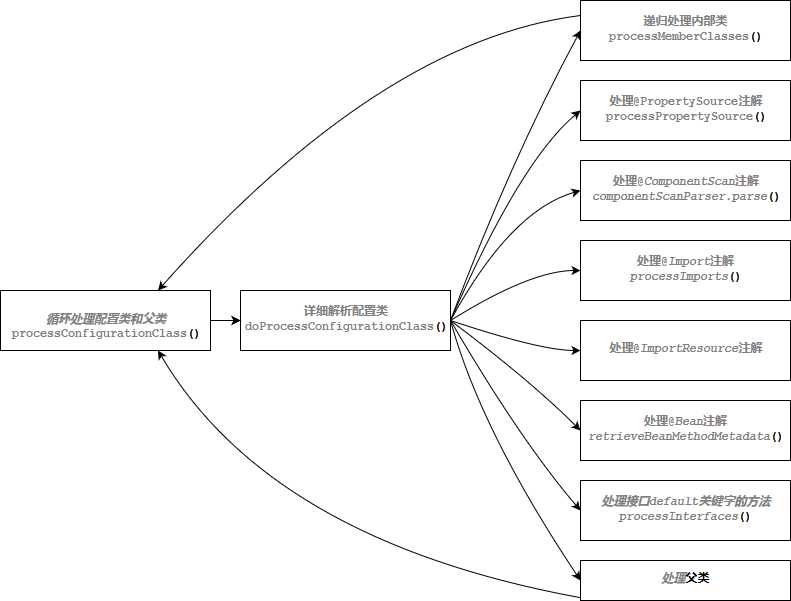
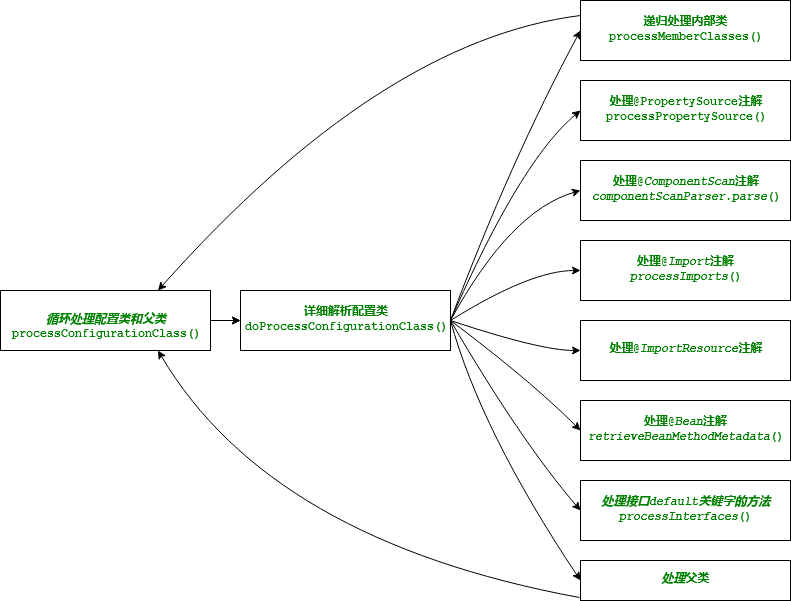
增加总结, 更新作图, 更改排版序号

diff --git a/spring-ioc/spring-ioc.md b/spring-ioc/spring-ioc.md
@@ -14,7 +14,7 @@
 ## 容器
 
 
-### 一、 容器概览
+### 1. 容器概览
 
 以一张图来看看, **Spring IOC**容器包含哪些东西  
 ![Spring 容器](images/spring-ioc.png)
@@ -42,7 +42,7 @@
 * `LifecycleProcessor` `Bean`实例生命周期处理器, 是容器初始化完成, 所有`Bean`实例一切就绪后, 容器对外输出实现`Lifecycle`接口的扩展组件`Bean`执行自动启动, 如`rabbitmq`客户端组件就是应用了这个机制. 当容器初始化完成后, 容器引导`rabbitmq`启动, `rabbitmq`客户端组件内部开始执行`rabbitmq`客户端连接到`rabbitmq`服务器, 创建监听器监听队列消息等一系列初始化工作. 
 
 
-### 二、 如何创建一个新容器
+### 2. 如何创建一个新容器
 
 **Spring**容器被设计为父子层级容器, 子容器可以继承公共父容器的**Bean**实例, 这对于某些场景需要多个不同隔离的子容器提供了支持. 比如在**Spring MVC**中, 展现层`Bean`位于一个子容器中, 而业务层和持久层的`Bean`位于父容器中. 这样, 展现层`Bean`就可以引用业务层和持久层的`Bean`, 而业务层和持久层的`Bean`则看不到展现层的`Bean`.
 创建**Spring**容器可以以XML文件声明式和注解编码两种方式, 或者混用两种方式. 针对不同方式的`Bean`定义声明, **Spring**提供不同的支持类:
@@ -73,7 +73,7 @@
 这是一个标准的**maven**项目结构, **java**目录都是存放**java**包、**java**文件的根目录, **resources**目录存放应用、日志、国际化消息及其他配置相关的配置文件.
 
 
-#### 注解方式创建容器的几种示例
+#### 2.1. 注解方式创建容器的几种示例
 
 1. 注解类为参数的构造器  
 * 注解类代码
@@ -122,7 +122,7 @@ public class SpringContainer {
 以无参构造器方式创建一个完整的容器, 需要的代码也不多, 调用`register`方法注册一个注解类或者调用`scan`方法指定要扫描的包名, 然后调用`refresh`方法刷新容器, 调用刷新方法是**必须的**, 容器初始化大量相关的工作需要调用该方法.
 
 
-### 三、 容器启动流程
+### 3. 容器启动流程
 
 通过前面的示例, 创建一个容器很简单, 仅两三行代码就完成了. 我们输入一个配置类或者包名, 最后容器输出一系列事先定义的`Bean`实例(仅限单例会预先创建, 多例要在运行时动态创建), 容器里面到底发生了什么, 我们不知晓, 一般来说也不需要关心, 容器自身保证输出的`Bean`实例及依赖关系的正确性. 让我们窥视下这个黑盒子做了哪些工作:  
 ![Spring 容器启动流程](images/spring-ioc-sequence.png)
@@ -265,7 +265,7 @@ public class AnnotationConfigUtils {
 3. 第三是参与`Bean`实例创建生命周期的处理器`Bean`定义, 该类型的处理器`Bean`定义实例先于其他`Bean`定义实例创建, 但晚于容器生命周期处理器类型实例. 在创建`Bean`实例和初始化过程被触发调用, 解决依赖属性、校验依赖是否满足、包装方法(事件监听器)
 
 
-### 一、 `AnnotationAwareOrderComparator` 源码分析
+### 1. `AnnotationAwareOrderComparator` 源码分析
 
 该类在容器中有两大用处, 第一用处在容器内部调用PostProcessor处理器时, 优先触发调用实现了接口`Ordered`或注解`@Order`的处理器, 值越小越优先被触发. 第二用处在属性依赖选择时, 当属性依赖只需一个种子`Bean`, 而容器发现存在多个种子`Bean`, 根据`@Priority`注解, 值小者被选择性更高, 存在优先级一样等不确定时容器会抛出异常
 ```java
@@ -333,7 +333,7 @@ public class AnnotationAwareOrderComparator {
 `FirstAutowire`优先级是1 所以在单属性依赖时被优先选择注入. 在数组属性依赖的注入值可以看到, 因为`FirstAutowire`的排序号3 所以在数组的排序是2
 
 
-### 二、 `ContextAnnotationAutowireCandidateResolver` 源码分析
+### 2. `ContextAnnotationAutowireCandidateResolver` 源码分析
 
 自动绑定备选项选择器用于判断一个`Bean`对象是否可作为"种子`Bean`"被绑定到属性依赖, 在实际应用中, 当存在多个"种子`Bean`"时, 我们可以通过`@Qualifier`设置一个匹配值来过滤, `ContextAnnotationAutowireCandidateResolver` 类通过继承关系来区分不同基础类的功能和职责:  
 ![Spring 自动绑定备选项选择器](images/spring-autowire-candidate-resolver-class.png)
@@ -354,7 +354,7 @@ public class AnnotationAwareOrderComparator {
 知识前知道: `BeanDefinition`类, 是对`XML`或者注解`@Bean`方式声明`Bean`定义的元数据表达, 其中最主要的元数据是`beanClassName`, `factoryBeanName`与`factoryMethodName`, 在配置元数据定义时, 如果设置`beanClassName`, 说明`Bean`实例的类型就是名字所指的类型, 如果设置`factoryBeanName`和`factoryMethodName`, `Bean`实例是由`factoryBeanName`所指的工厂`Bean`来创建, 创建的方法是`factoryMethodName`指定的方法名, `Bean`的类型是方法返回类型能够表达的类型.
 
 
-#### 父类`GenericTypeAwareAutowireCandidateResolver`自动绑定备选项泛型类型选择器
+#### 2.1. 父类`GenericTypeAwareAutowireCandidateResolver`自动绑定备选项泛型类型选择器
 
 ```java
 public class GenericTypeAwareAutowireCandidateResolver {
@@ -486,7 +486,7 @@ public class GenericTypeAwareAutowireCandidateResolver {
 在自动绑定备选项泛型类型选择器源码中, 说明了属性依赖怎么检查一个种子`Bean`是否符合匹配属性依赖类型关系. 可能会产生这样的情况, 找到多个符合属性依赖的种子`Bean`. 如果属性依赖是数组、集合还好, 假如是某个具体类型属性实例呢, 这在应用中很常见的一种属性依赖配置. 面对这种情况该如何如选择出或标识一个更符合属性依赖的种子`Bean`, **Spring**提供了解决方案, 就是通过注解`@Qualifier`, 指定该注解的属性值, 需要属性依赖和种子`Bean`两边都配置这个注解并设置同样的注解属性值, 以这种注解限定符方式进一步匹配得到最终的资格`Bean`
 
 
-#### `QualifierAnnotationAutowireCandidateResolver`自动绑定备选项限定符注解选择器
+#### 2.2. `QualifierAnnotationAutowireCandidateResolver`自动绑定备选项限定符注解选择器
 
 ```java
 public class QualifierAnnotationAutowireCandidateResolver {
@@ -676,7 +676,7 @@ public class QualifierAnnotationAutowireCandidateResolver {
 `@Value`注解的处理逻辑比较简单, 查找属性依赖的`@Value`注解, 提取`@Value`注解`value`属性的值并返回. 然后由容器处理这个`value`的属性值, 如"${}"通过查找配置属性文件的属性值, 如"#{}"通过表达式求值获取, 然后把最终求得的值注入到属性依赖
 
 
-#### `ContextAnnotationAutowireCandidateResolver`自动绑定备选项配置注解选择器
+#### 2.3. `ContextAnnotationAutowireCandidateResolver`自动绑定备选项配置注解选择器
 
 ```java
 public class ContextAnnotationAutowireCandidateResolver {
@@ -760,12 +760,12 @@ public class ContextAnnotationAutowireCandidateResolver {
 运行效果告诉我们, 虽然每次调用属性依赖`prototypeBean`的`getThis()`方法, 但是每次返回的`this`都是不同的对象, 如果把`@Lazy`注解注释掉的话, 每次返回的`this`就会同一个对象了. 至此, 让我们学到了在实际应用中如何解决单例依赖多例的问题. 需要指出的是, 其实还有别的方法也可以解决单例依赖多例的问题, 这里只是说出了一种方式而已.
 
 
-### 三、 `ConfigurationClassPostProcessor` 源码分析
+### 3. `ConfigurationClassPostProcessor` 源码分析
 
 被`@Configuration` 注解的类叫做配置类, 类似XML文件那样配置`Bean`定义声明, 只不过这种是在`class`类配合`@Configuration`注解表示当前类是声明`Bean`定义的配置类. `ConfigurationClassPostProcessor`叫做配置类后置处理器, 用来解析、读取、查找和注册配置类中的`Bean`定义声明. 在开始进入讲"解配置类后置处理器"前, 先从一些重要基础组件的源码和原理作为介绍入口, 逐步深入, 最后重点分析: 配置类后置处理器.
 
 
-#### `MetadataReaderFactory` 元数据读取器工厂
+#### 3.1. `MetadataReaderFactory` 元数据读取器工厂
 
 元数据读取器工厂根据给定的类名, 通过资源加载器`ResourceLoader`载入数据流, 创建一个元数据读取器`MetadataReader`实例, 元数据读取器是一种使用`ASM`字节码读取技术的框架(**Spring**已内部集成), 这里不对字节码读取技术做讲解. `MetadataReaderFactory` 接口定义：
 ```java
@@ -788,13 +788,13 @@ public interface MetadataReaderFactory {
   MetadataReader getMetadataReader(Resource resource) throws IOException;
 }
 ```
-在这里会有这样的疑问, 为什么不通过JVM加载类的方式加载到虚拟机, 然后通过反射获取类的信息? 首先理解下, 类从被加载到虚拟机内存中开始, 到卸载出内存为止, 它的整个生命周期包括: 加载(Loading)、验证(Verification)、准备(Preparation)、解析(Resolution)、初始化(Initialization)、使用(Using)和卸载(Unloading)7个阶段. 其中准备、验证、解析3个部分统称为连接(Linking). 如图所示
+在这里会有这样的疑问, 为什么不通过JVM加载类的方式加载到虚拟机, 然后通过反射获取类的信息? 首先理解下, 类从被加载到虚拟机内存中开始, 到卸载出内存为止, 它的整个生命周期包括: 加载(Loading)、验证(Verification)、准备(Preparation)、解析(Resolution)、初始化(Initialization)、使用(Using)和卸载(Unloading)7个阶段. 其中准备、验证、解析3个部分统称为连接(Linking). 如图所示:  
 ![JVM 类加载过程](images/jvm-class-loading.png)
 
 看到这里, 复杂吧、严格吧? 我们还只是希望得到类在内存中结构表示的元数据信息, 通过对元数据的识别和处理, 最后需要`Bean`对象时才通知JVM去加载类并创建类的实例对象. 要是容器不需要这个类, 就没必要加载到虚拟机. 所以这里通过字节码技术直接装载到内存进行各种操作判断更加方便和简单
 
 
-#### `ImportSelector` 导入选择器
+#### 3.2. `ImportSelector` 导入选择器
 
 导入选择器根据策略选择性引入其他的类, 我们称导入其他类的类为"主动类", 被导入的类称为"被动类". 导入选择器通过读取一个或多个"主动类"上的注解属性值, 根据属性值选择性返回"被动类"的名字, `ImportSelector`接口定义：
 ```java
@@ -829,7 +829,7 @@ public class ContextConfig {
 至此我们已经知道了怎么编写一个`ImportSelector`导入选择器接口实现的应用实例. 先创建接口实现类, 接着自定义注解并导入该接口实现类, 然后在配置类主入口使用自定义的注解并设置一个选项值表明要导入哪个"被动类"
 
 
-#### `ImportBeanDefinitionRegistrar` 导入`Bean`定义声明注册员
+#### 3.3. `ImportBeanDefinitionRegistrar` 导入`Bean`定义声明注册员
 
 导入`Bean`定义声明注册员, 与配置类使用`@Bean` 注解在方法级别声明`Bean`定义相比, 该接口提供了一种另外的更加原始的方式声明`Bean`定义. 我们可以在配置类或者`ImportSelector`类上使用`@Import`注解导入注册员类, 也可以通过`ImportSelector`类的实现方法上返回注册员类名称. 接口定义:
 ```java
@@ -847,7 +847,7 @@ public interface ImportBeanDefinitionRegistrar {
 > ![Spring 导入Bean定义声明注册员代码](images/spring-bean-import-bean-definition-registrar-code.png)
 
 
-#### `ConfigurationClass` 配置类模型
+#### 3.4. `ConfigurationClass` 配置类模型
 
 配置类模型是对那些被`@Configuration` 注解的类的结构描述, 称为配置类, 配置类模型封装了被`@Configuration`注解的类的所有信息. 相对于XML文件方式声明`Bean`定义, 配置类模型是一种使用编码方式声明`Bean`定义. 真实的、完整的配置类模型示例代码:
 > ![Spring 配置类示例代码](images/spring-config-class-code.png)
@@ -914,7 +914,7 @@ final class ConfigurationClass {
 通过源码可以看出, 在配置类模型上的`@ImportResource`、`@Import`, `@Bean`注解被解析并得到配置类模型内部结构定义的几个属性值. 除了验证方法`validate`需要注意外, 其他都是简单的`setter`、`getter`方法, 所以这里没有更多的展示这些代码. 接下来看看如何解析配置类模型对象的源码
 
 
-#### `ConfigurationClassParser` 配置类解析器
+#### 3.5. `ConfigurationClassParser` 配置类解析器
 
 配置类解析器使用字节码读取技术, 读取类文件到内存构造元数据结构, 解析元数据结构并生成一组配置类对象. 避免即时加载和反射操作带来的性能开销. 配置类解析器源码比较多, 将分为三个部分来讲解: 内部类、配置类 属性和方法
 
@@ -1506,7 +1506,7 @@ class ConfigurationClassParser {
 4. 记录配置类对象供后续"配置类`Bean`定义读取器"使用
 
 
-#### `ConfigurationClassBeanDefinitionReader` 配置类`Bean`定义读取器
+#### 3.6. `ConfigurationClassBeanDefinitionReader` 配置类`Bean`定义读取器
 
 `Bean`定义读取器接受读取解析器解析得出的`Bean`定义并登记注册到容器的一个组件. 读取器主要注册三个来源的`Bean`定义: 配置类`Bean`定义(`ConfigurationClass`)、XML`Bean`定义(`BeanDefinitionReader`)、`Bean`定义登记员(`ImportBeanDefinitionRegistrar`). 相对于解析配置类阶段, 因为现在是注册`Bean`定义阶段, 读取器通过`TrackedConditionEvaluator`状态跟踪求值器过滤一个`Bean`定义是否忽略被注册, 该类的处理过程是判断当前的配置类定义是否应被忽略, 若否, 继续判断是否是被引入, 如果是被引入的则判断主动引入是否被忽略的, 若主动引入被忽略, 那么被引入也应被忽略注册到容器. XML方式声明注册到容器的`Bean`定义类型是`RootBeanDefinition`, 通过配置类代码注解方式声明注册到容器的`Bean`定义类型是`ConfigurationClassBeanDefinition`.
 
@@ -1696,7 +1696,7 @@ class ConfigurationClassBeanDefinitionReader {
 详细分析了加载注册配置类模型的一组`Bean`定义源码, 及根据方法元数据如何创建一个`Bean`定义并注册到容器的每一步细节. 在这里省略对通过XML方式和登记员方法注册`Bean`定义的方法分析. 代码方式配置声明`Bean`定义是主流, 所以详细分析这个是必要的, 对于XML方式, 有兴趣的可以自行查阅相关源码. 对于登记员方式, 其实一开始在讲解配置类后置处理器时就提到分析过.
 
 
-#### `ConfigurationClassEnhancer` 配置类增强
+#### 3.7. `ConfigurationClassEnhancer` 配置类增强
 
 配置类增强使用**CGLIB**提供的字节码生成技术, **Spring**框架已把相关的代码纳入到自己的核心包里, 在实际应用中就无需单独添加**CGLIB**包的依赖. 配置类增强将我们定义的配置类模型重新生成新的子类并增强：增加公有的`$$beanFactory`属性, 引用`BeanFactory`; 增加实现`BeanFactoryAware`接口; 增加`Bean`容器感知拦截器和`@Bean`方法拦截器. 
 
@@ -2050,7 +2050,7 @@ class ConfigurationClassEnhancer {
 通过对配置类增强源码分析, 重点在于对配置类`@Bean`注解方法的过滤拦截. 容器按两种`Bean`类型处理, `FactoryBean`和非`FactoryBean`. 对`@Bean`注解方法也分为两种调用, 一种是由容器触发的容器调用, 一种是在一个`@Bean`注解方法调用另一个`@Bean`注解方法的用户调用. 对于容器调用, 不管`FactoryBean`和非`FactoryBean`都走`@Bean`注解方法内部代码逻辑. 对于用户调用, 得区分`FactoryBean`和非`FactoryBean`类型两种情况. 如果是`FactoryBean`, 则进行代理或者字节码增强, 拦截`getObject()`方法调用并从容器获取对应的`Bean`实例, 这样可以保证得到正确的范围实例对象. 如果是非`FactoryBean`, 那么直接从容器获取对应的`Bean`实例. 通过对`@Bean`注解方法的过滤拦截, 保证注解方法代码只执行一次, 之后获取实例都是从容器获取(非多例模型). 如果是多例模型, 还是要走`@Bean`注解方法调用, 并触发注解方法过滤拦截, 因为容器不存在实例, 继而走容器调用逻辑.
 
 
-#### 最后`ConfigurationClassPostProcessor` 配置类后置处理器
+#### 3.8. 最后`ConfigurationClassPostProcessor` 配置类后置处理器
 
 调用容器`registry`或者`scan`包名扫描方法创建并注册到容器的`Bean`定义是最原始的`Bean`定义. 可能这些`Bean`定义中有些是配置类型的`Bean`定义, 我们需要从配置类型的`Bean`定义中发现、解析、创建并注册新的`Bean`定义. 配置类后置处理器就是专门用来处理配置模型声明的`Bean`定义, 并从中解析找到新的`Bean`定义及注册到`Bean`定义注册器. 这是一个自动化的过程, 也是容器实例化过程中的第一步要做的主要工作: 发现并创建`Bean`定义. 容器的`Bean`实例都是根据事先声明好的`Bean`定义来创建的, 所以创建注册`Bean`定义工作很重要. 配置类后置处理器处在容器生命周期的初始阶段, 在容器初始化时仅有的一次执行机会. 所以在这个阶段用它来处理`Bean`定义发现、解析、创建工作最好不过了.
 
@@ -2256,17 +2256,17 @@ class ConfigurationClassPostProcessor {
 
 往前回顾容器概览中提到的三种类型后置处理器: `Bean`定义注册器后置处理器、`Bean`工厂后置处理器、`Bean`后置处理器. `Bean`定义注册器后置处理器和`Bean`工厂后置处理器针对容器本身生命周期的后置处理, `Bean`后置处理器针对`Bean`实例创建的生命周期. 配置类后置处理器同时实现了`Bean`定义注册器后置处理器和`Bean`工厂后置处理器接口, 这也是容器默认使用能够参与容器容器生命周期的处理器, 我们也可以实现自己的能够参与容器生命周期的处理器, 一般来说这已经没必要了, 容器本身提供的已完全能够满足需要. 我们更多的是使用配置类后置处理器支持的导入`Bean`定义注册员和`Bean`后置处理器来扩展新功能. 通过对配置类后置处理器的源码分析, 发现配置类后置处理器涉及到相关的源码相当多, 理解也比较难, 也是容器源码中很重要的一块源码.
 
-在注解`Bean`定义读析器源码分析时, 曾说过注册`Bean`定义工具类, 该工具类主要用作注册一些内置的`Bean`定义:
+在注解`Bean`定义读析器源码分析时, 曾说过注册`Bean`定义工具类, 该工具类主要用作注册一些内置的`Bean`定义:  
 ![Spring 注解配置工具类图](images/spring-annotation-config-utils.png)
 
 对比了一下图, 到目前为止还仅仅只介绍了配置类后置处理器的源码, 后面那些就不一一介绍了, 接下来直接介绍容器`refresh`方法
 
 
-### 四、 `AbstractApplicationContext` 源码分析
+### 4. `AbstractApplicationContext` 源码分析
 
-前面介绍了很多容器的辅助类的源码和原理, 接下来直接分析容器源码的运作原理. 在开始展述前, 先理清一个概念, 前面一直提到**容器**说词(特指`ApplicationContext`)和`Bean`工厂容器, 都是容器, 有时候把`Bean`工厂容器理解成容器, 这也没有错, 因为真正实现管理`Bean`实例的就是`Bean`工厂容器, 但是这里说的容器特指`ApplicationContext`容器. 根据**Spring**官方解释, 容器使用的是模板设计, 虽然实现很多接口, 但底层实现都是调用各种组合起来的基础组件, 如: `Bean`工厂容器、环境变量等基础组件. 所以说`ApplicationContext`容器是容器中的容器, 只是采用了模板设计方法更方便使用罢了. 有别于前面的整类源码分析, 下面将会采用每个独立方法函数进行源码解读, 由`refresh`方法为入口, 一步一步解读容器的运作原理.
+前面介绍了很多容器的辅助类的源码和原理, 接下来直接分析容器源码的运作原理. 在开始展述前, 先理清一个概念, 前面一直提到**容器**(特指`ApplicationContext`)和`Bean`工厂容器说词, 都是容器, 有时候把`Bean`工厂容器理解成容器, 这也没有错, 因为真正实现管理`Bean`实例的就是`Bean`工厂容器, 但是这里说的容器特指`ApplicationContext`容器. 根据**Spring**官方解释, 容器使用的是模板设计, 虽然实现很多接口, 但底层实现都是调用各种组合起来的基础组件, 如: `Bean`工厂容器、环境变量等基础组件. 所以说`ApplicationContext`容器是容器中的容器, 只是采用了模板设计方法更方便使用罢了. 有别于前面的整类源码分析, 下面将会采用每个独立方法函数进行源码解读, 由`refresh`方法为入口, 一步一步解读容器的运作原理.
 
-创建好注解Bean定义读析器、包扫描器和环境变量实例后进行刷新
+通过`new`关键字创建容器时, 容器先创建注解`Bean`定义读析器、包扫描器和环境变量实例对象, 然后调用如下的刷新方法:
 ```java_holder_method_tree
 public void refresh() throws BeansException, IllegalStateException {
   //同步
@@ -2342,7 +2342,8 @@ public void refresh() throws BeansException, IllegalStateException {
 ```
 
 刷新容器方法的代码结构、逻辑流程都很清晰明了, 简洁易懂. 整个流程是:
-> 1.准备配置环境 => 2.创建Bean工厂容器实例 => 3.准备Bean工厂容器 => 4.允许子类处理Bean工厂容器 => 5.注册并调用`Bean`工厂后置处理器(调用子类添加和配置注册的Bean) => 6.注册`Bean`后置处理器 => 7.初始化国际化消息处理组件 => 8.初始化应用事件广播器 => 9.回调子类刷新(钩子函数) => 10.注册应用监听器Bean实例 => 11.注册所有单例的Bean实例 => 12.完成初始化, 广播应用事件告知感兴趣的应用监听器 => 13.清空反射数据缓存
+![Spring 容器运作流程图](images/spring-application-context-flow.png)
+
 
 1.准备配置环境
 ```java_holder_method_tree
@@ -2380,16 +2381,16 @@ protected ConfigurableListableBeanFactory obtainFreshBeanFactory() {
   return beanFactory;
 }
 ```
-抽象类本身不提供`Bean`工厂容器, 通过调用抽象方法由子类提供, 这样子类可以决定使用那个实现版本的`Bean`工厂容器, 默认是: `DefaultListableBeanFactory`
+抽象类本身不提供`Bean`工厂容器, 通过调用抽象方法由子类提供, 这样子类可以决定使用那个实现版本的`Bean`工厂容器, 子类默认使用: `DefaultListableBeanFactory`
 
 3.准备`Bean`工厂容器
 ```java_holder_method_tree
 protected void prepareBeanFactory(ConfigurableListableBeanFactory beanFactory) {
   //使用同一类加载
   beanFactory.setBeanClassLoader(getClassLoader());
-  //设置表达式处理器
+  //设置表达式解析器
   beanFactory.setBeanExpressionResolver(new StandardBeanExpressionResolver(beanFactory.getBeanClassLoader()));
-  //添加属性转资源类型转换器
+  //添加资源属性转换器
   beanFactory.addPropertyEditorRegistrar(new ResourceEditorRegistrar(this, getEnvironment()));
 
   //注册aware感知后置处理器
@@ -2449,7 +2450,7 @@ protected void invokeBeanFactoryPostProcessors(ConfigurableListableBeanFactory b
   }
 }
 ```
-这里包含两种类型后置处理器调用: `BeanDefinitionFactoryPostProcessor`和`BeanFactoryPostProcessor`, 主要调用前面解读过的`ConfigurationClassPostProcessor`配置类后置处理器, 该类同时实现了这两个接口. 创建注解`Bean`定义读析器实例时已将配置类后置处理器注册为`Bean`定义. 所以这里必然会调用到配置类后置处理器.
+这里包含两种类型后置处理器调用: `BeanDefinitionFactoryPostProcessor`和`BeanFactoryPostProcessor`, 主要调用前面解读过的`ConfigurationClassPostProcessor`配置类后置处理器, 该类同时实现了这两个接口. 创建注解`Bean`定义读析器实例时已将配置类后置处理器注册为`Bean`定义. 所以这里必然会调用到配置类后置处理器. 配置类后置处理器根据指定配置类入口(或包)负责查找、解析、创建并注册`Bean`定义. 
 
 6.注册`Bean`后置处理器
 ```java_holder_method_tree
@@ -2521,7 +2522,7 @@ protected void initApplicationEventMulticaster() {
 9.回调子类刷新(钩子函数)  
 初始化环境准备好了, 就差创建自定义的`Bean`实例, 先交给子类需不需要处理其他的任务
 
-10.注册应用监听器Bean实例
+10.注册应用监听器`Bean`实例
 ```java_holder_method_tree
 protected void registerListeners() {
   //子类添加的实例, 注册BeanFactoryPostProcessor和BeanPostProcessor实例时是应用监听器Bean, 把这些监听器都注册到应用事件广播器
@@ -2548,7 +2549,7 @@ protected void registerListeners() {
 }
 ```
 
-11.注册所有单例的Bean实例
+11.注册所有单例的`Bean`实例
 ```java_holder_method_tree
 protected void finishBeanFactoryInitialization(ConfigurableListableBeanFactory beanFactory) {
   //设置工厂容器的类型转换器
@@ -2584,6 +2585,7 @@ protected void finishBeanFactoryInitialization(ConfigurableListableBeanFactory b
   beanFactory.preInstantiateSingletons();
 }
 ```
+注册单例前, 设置工厂容器的类型转换器为`ConversionService`, 这个转换器的功能是将一个java类型转换成另一个java类型, 一般用于对已知、常用、简单的类型转换, 如: `String` -> `Integer`, `Set` -> `List`. 在"3.准备`Bean`工厂容器"曾说到属性转换器`PropertyEditor`, 这个转换器的功能特别强大, 适合于把一个属性字符串转换成任意的java类型, 如把一个链接字符串转换成一个表示资源的`Resource`对象. 设置好转换器后, 判断有没有注册如`PropertyPlaceholderConfigurer`属性占位符配置器的`Bean`, 没有的话则创建并注册默认的内嵌值解析器, 以解决注解属性值替换问题. 完成这两步后, 置空工厂容器的临时类加载器, 临时类加载器在校验判断属性依赖的类型是否匹配满足时用到, 因为判断依赖关系时还没有也不需要创建`Bean`实例, 所以用了临时类加载器. 接着冻结对元数据的任何修改避免影响创建注册单例. 最后调用工厂容器注册单例的方法, 内部大概逻辑是获取所有的单例的`Bean`名称, 循环`Bean`名称调用`getBean`方法, `getBean`方法会判断`Bean`实例是否存在, 不存在则调用`createBean`创建并注册.
 
 12.完成初始化, 广播应用事件告知感兴趣的应用监听器
 ```java_holder_method_tree
@@ -2601,5 +2603,25 @@ protected void finishRefresh() {
   LiveBeansView.registerApplicationContext(this);
 }
 ```
-回顾之前的分析, 在整个容器初始化过程中存在三个子周期: `Bean`工厂容器生命周期、`Bean`生命周期及现在的`Bean`实例周期. 在广播应用事件前先创建`Bean`实例周期处理器, `Bean`实例周期处理器处理`Bean`实例初始化完成后和实例销毁前两个周期, 通过实现`LifeCycle`接口`start`和`stop`方法来控制. 在广播一个容器初始完成事件前, 先让`Bean`实例周期处理器触发一下`Bean`实例的开始周期, 然后整个容器初始化准备完毕.
+回顾之前的分析, 在整个容器初始化过程中存在三个子周期: `Bean`工厂容器生命周期、`Bean`生命周期及现在的`Bean`实例周期. 在广播应用事件前先创建`Bean`实例周期处理器, `Bean`实例周期处理器处理`Bean`实例初始化完成后和实例销毁前两个周期. `Bean`实例周期是通过实现`LifeCycle`接口`start`和`stop`方法来支持的. 所以, 如果一个`Bean`要具备实例周期特性得实现这个接口. `Bean`实例周期处理器会对所有周期`Bean`实例触发一下开始周期, 然后广播一个容器刷新事件, 至此整个容器初始化准备完毕.  
 
+
+
+## 总结
+
+从通过`new`关键字创建`AnnotationConfigApplicationContext`容器实例开始到最后调用`refresh`方法, 跨越篇幅较长, 阅读有一定的难度, 对于掌握并全面理解比较困难. 现在回顾总结下:
+* 1. `AnnotationConfigApplicationContext` 注解配置应用容器类, 创建一个基于注解方式声明`Bean`定义的容器
+* 2. `AnnotatedBeanDefinitionReader` 注解`Bean`定义读析器类, 读取、解析、注册指定入口配置类中声明的`Bean`定义
+  * 2.1 `AnnotationConfigUtils` 注解配置工具类, 创建排序器、自动绑定备选项选择器、注册容器首先的`Bean`定义、获取注解属性值操作等工具方法
+  * 2.2 `AnnotationAwareOrderComparator` 排序器, 对同类`Bean`进行排序, 可以实现`Ordered`接口或添加注解`@Order`设置`Bean`的序号
+  * 2.3 `ContextAnnotationAutowireCandidateResolver` 自动绑定备选项选择器, 在依赖绑定时, 对于多个备选项, 选择一个最优的备选项绑定到依赖项(非集合依赖项)
+* 3. `ClassPathBeanDefinitionScanner` 类路径`Bean`定义扫描器, 扫描整个类路径下的注解`Bean`定义并注册
+* 4. `ConfigurationClassPostProcessor` 配置类后置处理器, 加载文件、创建模型、解析对象、注册声明定义
+  * 4.1 `MetadataReaderFactory` 元数据读取器工厂, 创建`class`文件的元数据读取器, 元数据读取器可以把一个`class`文件构造一个在内存上可理解的数据结构
+  * 4.2 `ImportSelector` 导入选择器, 一般搭配一个注解, 在注解上使用元注解`@Import`导入实现该接口的类, 目的是可以根据注解的属性值策略性选择导入一组类名字
+  * 4.3 `ImportBeanDefinitionRegistrar` 导入`Bean`定义声明注册员, 使用代码原始方式创建一个`Bean`定义声明
+  * 4.4 `ConfigurationClass` 配置类模型, 是Spring对`@Configuration`注解的类的结构描述, 方便内部操作
+  * 4.5 `ConfigurationClassParser` 配置类解析器, 读取解析类文件到内存构造元数据结构, 解析元数据结构并生成一组配置类对象
+  * 4.6 `ConfigurationClassBeanDefinitionReader` 配置类`Bean`定义读取器, 读取并注册配置类解析器得到的`Bean`定义
+  * 4.7 `ConfigurationClassEnhancer` 配置类增强, 主要增强`@Bean`注解的方法的调用, 保证获取正确的实例
+* 5. `AbstractApplicationContext` 容器抽象类, `refresh`方法是容器启动、运作的核心
